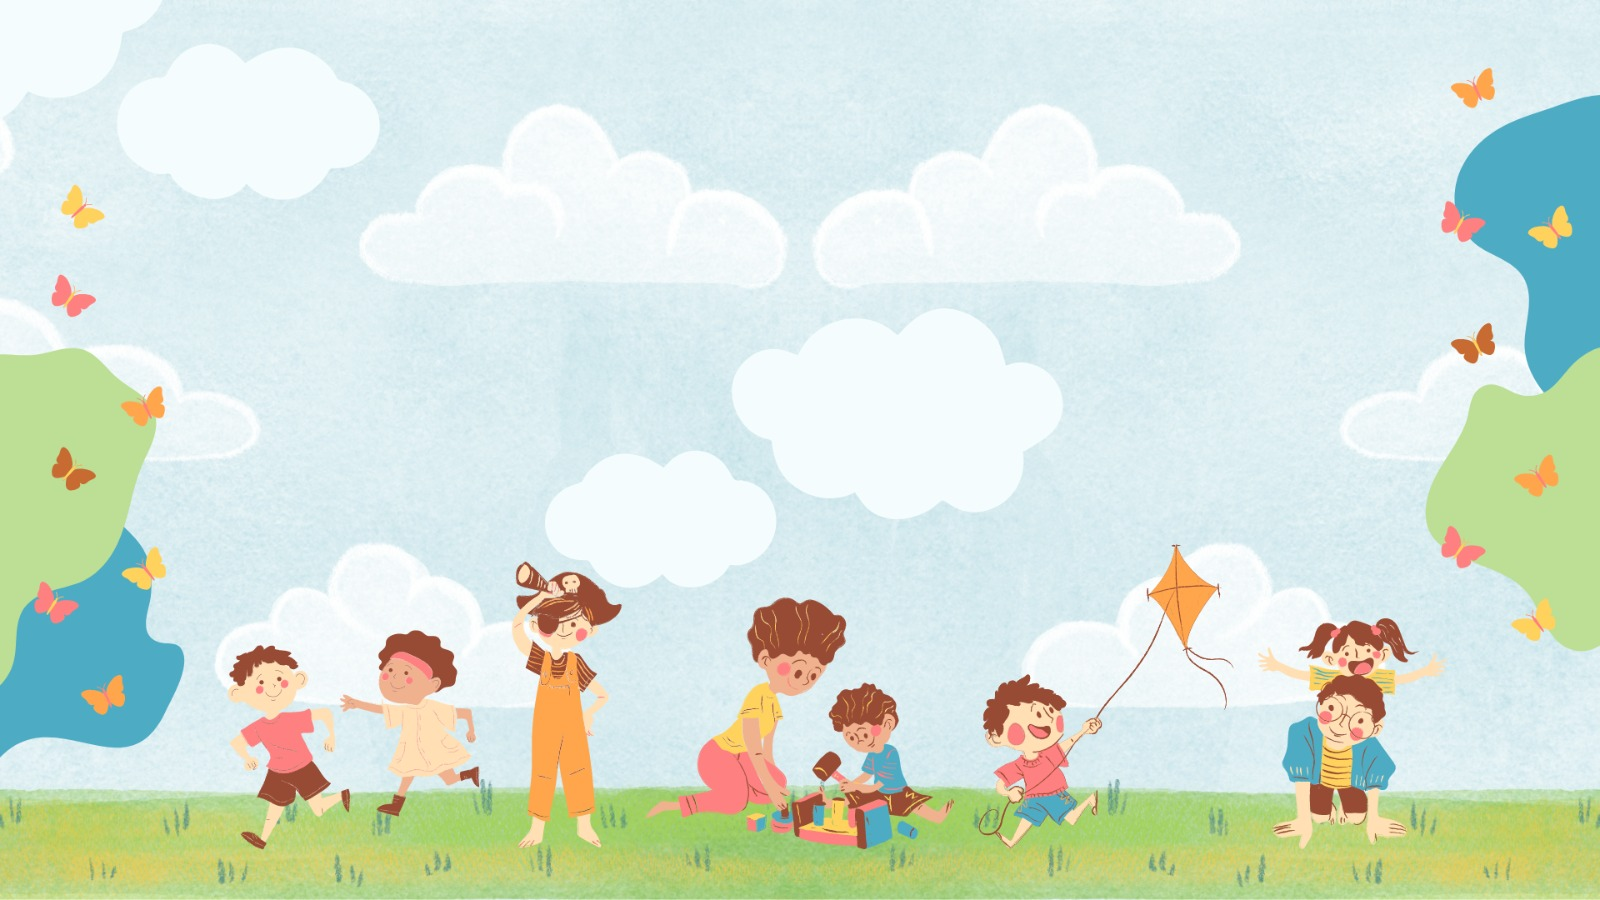
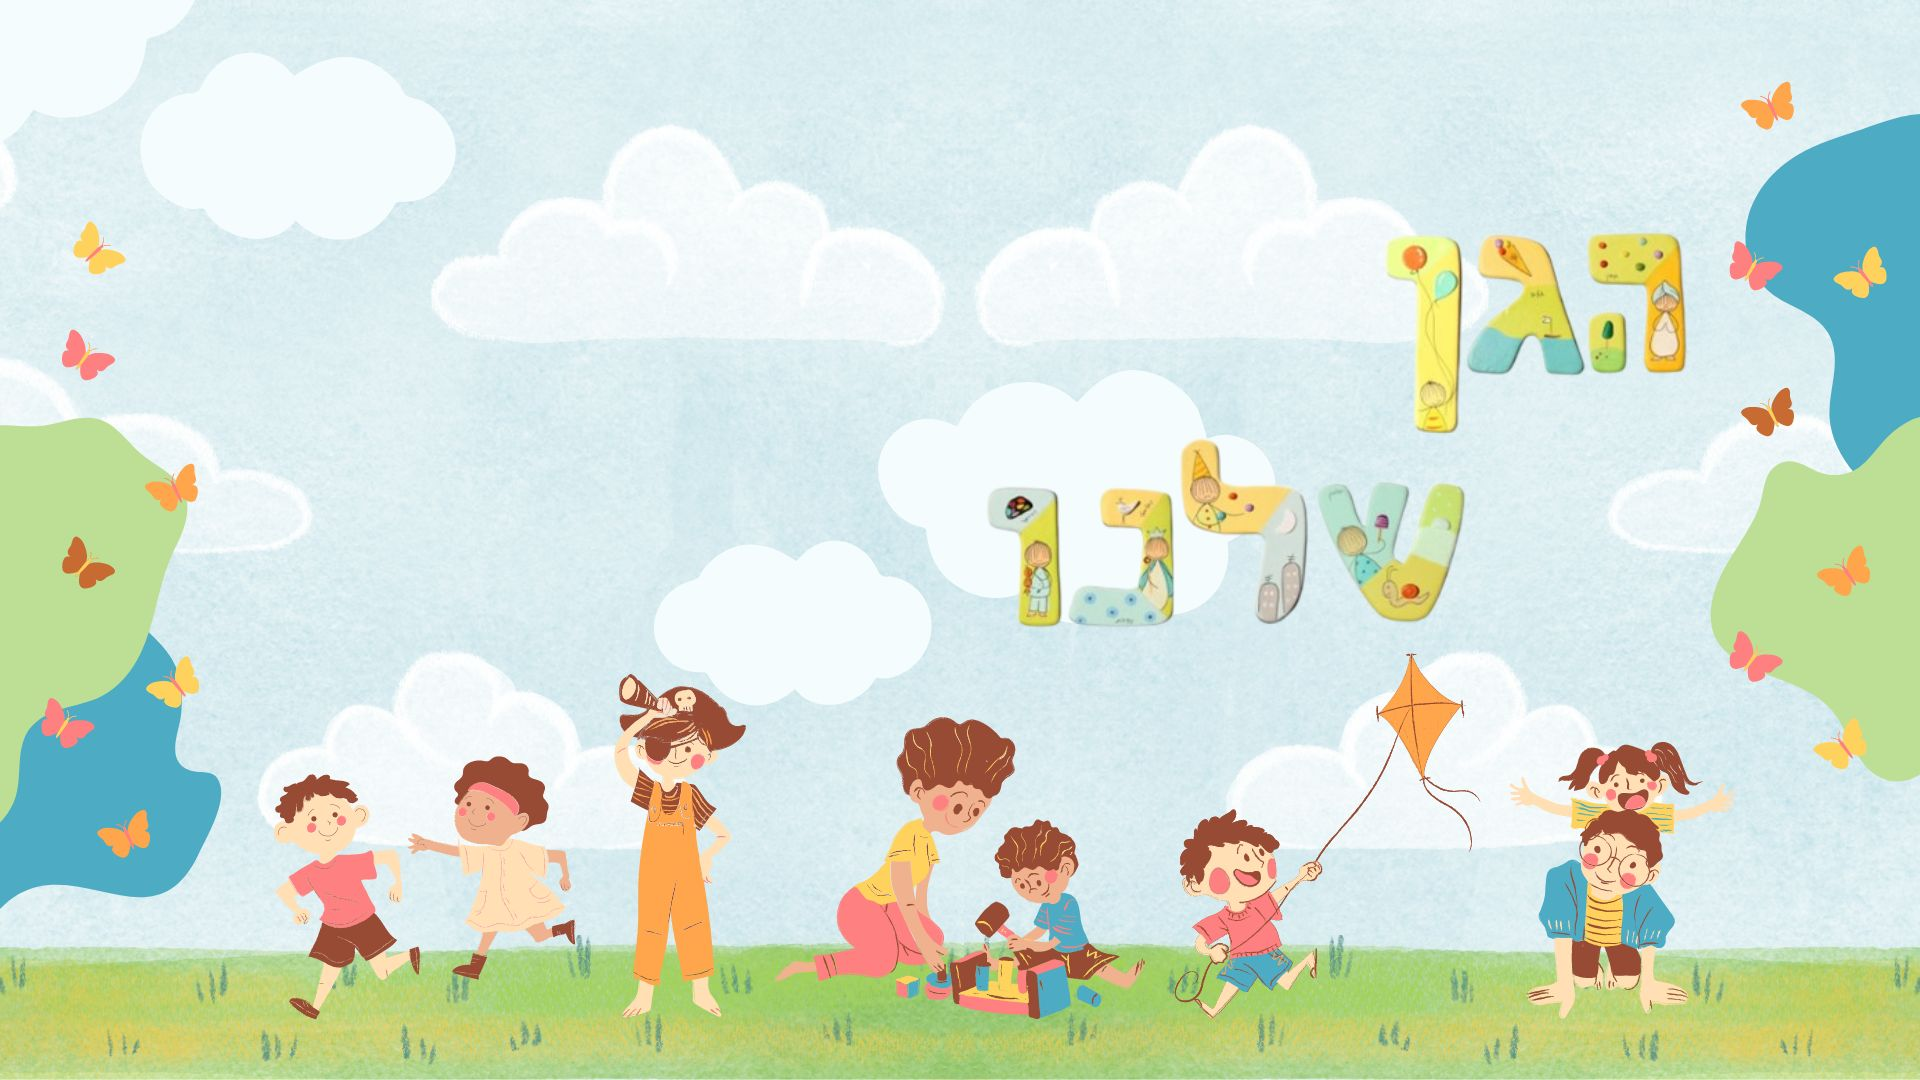
adding table of kids

Changed region(s): [[0.5, 0.4044, 0.7812, 0.5911], [0.7188, 0.2178, 0.9062, 0.4044]]

diff --git a/client/src/components/ChildProfile.jsx b/client/src/components/ChildProfile.jsx
@@ -1,5 +1,6 @@
 import React, { useState, useEffect } from 'react';
-import { Button, TextField, Typography, Box } from '@mui/material';
+import { Button, TextField, Typography, Box, Dialog, DialogActions, DialogContent, DialogContentText, DialogTitle, IconButton } from '@mui/material';
+import CheckCircleIcon from '@mui/icons-material/CheckCircle';
 import axios from 'axios';
 
 const ChildProfile = ({ child }) => {
@@ -51,40 +52,47 @@ const ChildProfile = ({ child }) => {
     setEditedChild(prev => ({ ...prev, [name]: value }));
   };
 
+  const handleCloseSuccessDialog = () => {
+    setSuccess(false);
+  };
+
   return (
     <Box className="p-4 bg-white rounded-lg shadow-md" direction="rtl">
       {isEditing ? (
         <>
-          <TextField
-            name="first_name"
-            label="שם פרטי"
-            value={editedChild.first_name}
-            onChange={handleChange}
-            fullWidth
-            className="mb-4"
-            inputProps={{ style: { textAlign: 'right' } }}
-          />
-          <TextField
-            name="last_name"
-            label="שם משפחה"
-            value={editedChild.last_name}
-            onChange={handleChange}
-            fullWidth
-            className="mb-4"
-            inputProps={{ style: { textAlign: 'right' } }}
-          />
-          <TextField
-            name="allergy_info"
-            label="מידע על אלרגיות"
-            value={editedChild.allergy_info || "לא צוינו אלרגיות"}
-            onChange={handleChange}
-            fullWidth
-            multiline
-            rows={3}
-            className="mb-4"
-            inputProps={{ style: { textAlign: 'right' } }}
-          />
-          <Button variant="contained" onClick={handleSave} className="mt-4">
+          <Box mb={2}>
+            <TextField
+              name="first_name"
+              label="שם פרטי"
+              value={editedChild.first_name}
+              onChange={handleChange}
+              fullWidth
+              inputProps={{ style: { textAlign: 'right' }, dir: "rtl" }}
+            />
+          </Box>
+          <Box mb={2}>
+            <TextField
+              name="last_name"
+              label="שם משפחה"
+              value={editedChild.last_name}
+              onChange={handleChange}
+              fullWidth
+              inputProps={{ style: { textAlign: 'right' }, dir: "rtl" }}
+            />
+          </Box>
+          <Box mb={2}>
+            <TextField
+              name="allergy_info"
+              label="מידע על אלרגיות"
+              value={editedChild.allergy_info || "אין מידע על אלרגיות ידועות"}
+              onChange={handleChange}
+              fullWidth
+              multiline
+              rows={3}
+              inputProps={{ style: { textAlign: 'right' }, dir: "rtl" }}
+            />
+          </Box>
+          <Button variant="contained" onClick={handleSave}>
             שמור שינויים
           </Button>
         </>
@@ -92,7 +100,7 @@ const ChildProfile = ({ child }) => {
         <>
           <Typography variant="body1" className="mb-4" style={{ textAlign: 'right' }}>שם פרטי: {child.first_name}</Typography>
           <Typography variant="body1" className="mb-4" style={{ textAlign: 'right' }}>שם משפחה: {child.last_name}</Typography>
-          <Typography variant="body1" className="mb-4" style={{ textAlign: 'right' }}>מידע על אלרגיות: {child.allergy_info}</Typography>
+          <Typography variant="body1" className="mb-4" style={{ textAlign: 'right' }}>מידע על אלרגיות: {child.allergy_info || "אין מידע על אלרגיות ידועות"}</Typography>
           <Button variant="outlined" onClick={handleEdit} className="mt-4">
             עריכת פרטים
           </Button>
@@ -100,7 +108,18 @@ const ChildProfile = ({ child }) => {
       )}
 
       {error && <Typography color="error" className="mt-4" style={{ textAlign: 'right' }}>{error}</Typography>}
-      {success && <Typography color="success" className="mt-4" style={{ textAlign: 'right' }}>הפרטים עודכנו בהצלחה!</Typography>}
+
+      <Dialog open={success} onClose={handleCloseSuccessDialog}>
+        <DialogTitle style={{ display: 'flex', alignItems: 'center', justifyContent: 'flex-end' }}>
+          הפרטים עודכנו בהצלחה
+          <CheckCircleIcon style={{ marginLeft: 8 }} />
+        </DialogTitle>
+        <DialogActions>
+          <Button onClick={handleCloseSuccessDialog} color="primary">
+            סגור
+          </Button>
+        </DialogActions>
+      </Dialog>
     </Box>
   );
 };

diff --git a/client/src/components/Teacher/ChildrenTable.jsx b/client/src/components/Teacher/ChildrenTable.jsx
@@ -1,0 +1,79 @@
+import React, { useEffect, useState } from 'react';
+import { Table, TableBody, TableCell, TableContainer, TableHead, TableRow, Paper, CircularProgress, Typography } from '@mui/material';
+import axios from 'axios';
+
+const ChildrenTable = () => {
+  const [children, setChildren] = useState([]);
+  const [loading, setLoading] = useState(true);
+  const [error, setError] = useState(null);
+
+  useEffect(() => {
+    const fetchChildren = async () => {
+      const user = JSON.parse(localStorage.getItem('user'));
+      const kindergartenId = user?.kindergarten_id;
+
+      try {
+        const response = await axios.get(`http://localhost:4000/children/kindergarten/${kindergartenId}`, {
+          headers: {
+            Authorization: `Bearer ${localStorage.getItem('token')}`,
+          }
+        });
+        setChildren(response.data);
+      } catch (err) {
+        setError('שגיאה בטעינת נתוני הילדים.');
+        console.error('Error fetching children:', err);
+      } finally {
+        setLoading(false);
+      }
+    };
+
+    fetchChildren();
+  }, []);
+
+  if (loading) {
+    return (
+      <div className="flex justify-center items-center h-full">
+        <CircularProgress />
+      </div>
+    );
+  }
+
+  if (error) {
+    return (
+      <div className="flex justify-center items-center h-full">
+        <Typography color="error">{error}</Typography>
+      </div>
+    );
+  }
+
+  return (
+    <div className="p-4 mx-auto max-w-7xl">
+      <TableContainer component={Paper} className="shadow-lg">
+        <Table className="min-w-full">
+          <TableHead>
+            <TableRow>
+              <TableCell align="right" className="text-lg font-bold text-purple-600">מס טלפון הורה 2</TableCell>
+              <TableCell align="right" className="text-lg font-bold text-purple-600">מס טלפון הורה 1</TableCell>
+              <TableCell align="right" className="text-lg font-bold text-purple-600">מידע על אלרגיות</TableCell>
+              <TableCell align="right" className="text-lg font-bold text-purple-600">שם משפחה</TableCell>
+              <TableCell align="right" className="text-lg font-bold text-purple-600">שם פרטי</TableCell>
+            </TableRow>
+          </TableHead>
+          <TableBody>
+            {children.map((child) => (
+              <TableRow key={child.id} className="hover:bg-gray-100">
+                <TableCell align="right">{child.parent2_phone}</TableCell>
+                <TableCell align="right">{child.parent1_phone}</TableCell>
+                <TableCell align="right">{child.allergy_info || "אין מידע על אלרגיות ידועות"}</TableCell>
+                <TableCell align="right">{child.last_name}</TableCell>
+                <TableCell align="right">{child.first_name}</TableCell>
+              </TableRow>
+            ))}
+          </TableBody>
+        </Table>
+      </TableContainer>
+    </div>
+  );
+};
+
+export default ChildrenTable;

diff --git a/client/src/components/Navbar.jsx b/client/src/components/Navbar.jsx
@@ -14,13 +14,34 @@ const NavBar = () => {
     };
 
     const sidebarOptions = [
-        { to: `/parent/chooseKid`, imgSrc: require('../img/chooseKid.png'), title: 'משתמש' },
-        { to: `${user.role}/attendance`, imgSrc: require('../img/attendance.png'), title: 'נוכחות' },
-        { to: `noticeBoard`, imgSrc: require('../img/noticeBoard.png'), title: 'הודעות' },
-        { to: `whatsNew`, imgSrc: require('../img/whatsNew.png'), title: '?מה חדש' },
-        { to: `#`, imgSrc: require('../img/logout.png'), title: 'התנתקות', onClick: handleLogout }
+        {
+            to: user.role === 'teacher' ? `/teacher/children` : `/parent/chooseKid`,
+            imgSrc: require('../img/chooseKid.png'),
+            title: user.role === 'teacher' ? 'ילדים בגן' : 'משתמש'
+        },
+        { 
+            to: `${user.role}/attendance`, 
+            imgSrc: require('../img/attendance.png'), 
+            title: 'נוכחות' 
+        },
+        { 
+            to: `noticeBoard`, 
+            imgSrc: require('../img/noticeBoard.png'), 
+            title: 'הודעות' 
+        },
+        { 
+            to: `whatsNew`, 
+            imgSrc: require('../img/whatsNew.png'), 
+            title: '?מה חדש' 
+        },
+        { 
+            to: `#`, 
+            imgSrc: require('../img/logout.png'), 
+            title: 'התנתקות', 
+            onClick: handleLogout 
+        }
     ];
-
+    
     return (
         <div className="sidebar flex flex-col md:flex-col">
             <img className="logo-img nav-link" src="/client/img/logo.png" alt="" />

diff --git a/client/src/App.js b/client/src/App.js
@@ -9,6 +9,7 @@ import ChooseKid from "./components/Parent/ChooseKid";
 import WhatsNew from "./components/WhatsNew";
 import "./style/App.css";
 import { KidProvider, useKid } from "./components/KidContext"; // Import KidProvider
+import ChildrenTable from "./components/Teacher/ChildrenTable";
 
 function AppContent() {
   const location = useLocation();
@@ -26,6 +27,7 @@ function AppContent() {
         <Routes>
           <Route path="/" element={<Login />} />
           <Route path="parent/attendance" element={isParentWithoutKid ? <Navigate to="/parent/chooseKid" /> : <AttendanceParent />} />
+          <Route path="teacher/children" element={<ChildrenTable />}/>
           <Route path="teacher/attendance" element={<AttendanceTeacher />} />
           <Route path="parent/chooseKid" element={<ChooseKid />} />
           <Route path="noticeboard" element={isParentWithoutKid ? <Navigate to="/parent/chooseKid" /> : <NoticeBoard user={user} />} />

diff --git a/server/routes/authRoutes.js b/server/routes/authRoutes.js
@@ -24,12 +24,13 @@ router.post('/', async (req, res) => {
 
         if (user.role === 'teacher') {
             const [results] = await db.promise().query('SELECT kin_id FROM teacher WHERE tid = ?', [user.id]);
+            console.log("results: " , results);
             if (results.length > 0) {
                 kindergartenId = results[0].kin_id;
             }
         } else if (user.role === 'parent') {
             const [results] = await db.promise().query(`
-                SELECT c.id, c.first_name, c.last_name, c.photo_url, c.allergy_info, c.kindergarten_id
+                SELECT c.id, c.first_name, c.last_name, c.allergy_info, c.kindergarten_id, c.parent1_phone, c.parent2_phone
                 FROM children c
                 JOIN parent p ON c.id = p.cid
                 WHERE p.pid = ?

diff --git a/client/src/components/Parent/ChooseKid.jsx b/client/src/components/Parent/ChooseKid.jsx
@@ -55,7 +55,9 @@ const ChooseKid = () => {
 
   return (
     <div className="container mx-auto mt-4 rtl">
-      <h1 className="text-4xl font-bold text-right mb-4">בחר ילד</h1>
+      <h1 className="text-4xl font-bold text-right mb-4">פרופיל משתמש</h1>
+      {kids.length > 1 ? (<p className="text-1xl text-right mb-4">בחר בשם הילד עבורו תרצה להציג נתונים</p>):
+      ""}
 
       {kids.length > 1 ? (
         <Select

diff --git a/client/public/index.html b/client/public/index.html
@@ -24,7 +24,7 @@
       work correctly both with client-side routing and a non-root public URL.
       Learn how to configure a non-root public URL by running `npm run build`.
     -->
-    <title>React App</title>
+    <title>הגן שלנו</title>
   </head>
   <body>
     <noscript>You need to enable JavaScript to run this app.</noscript>
